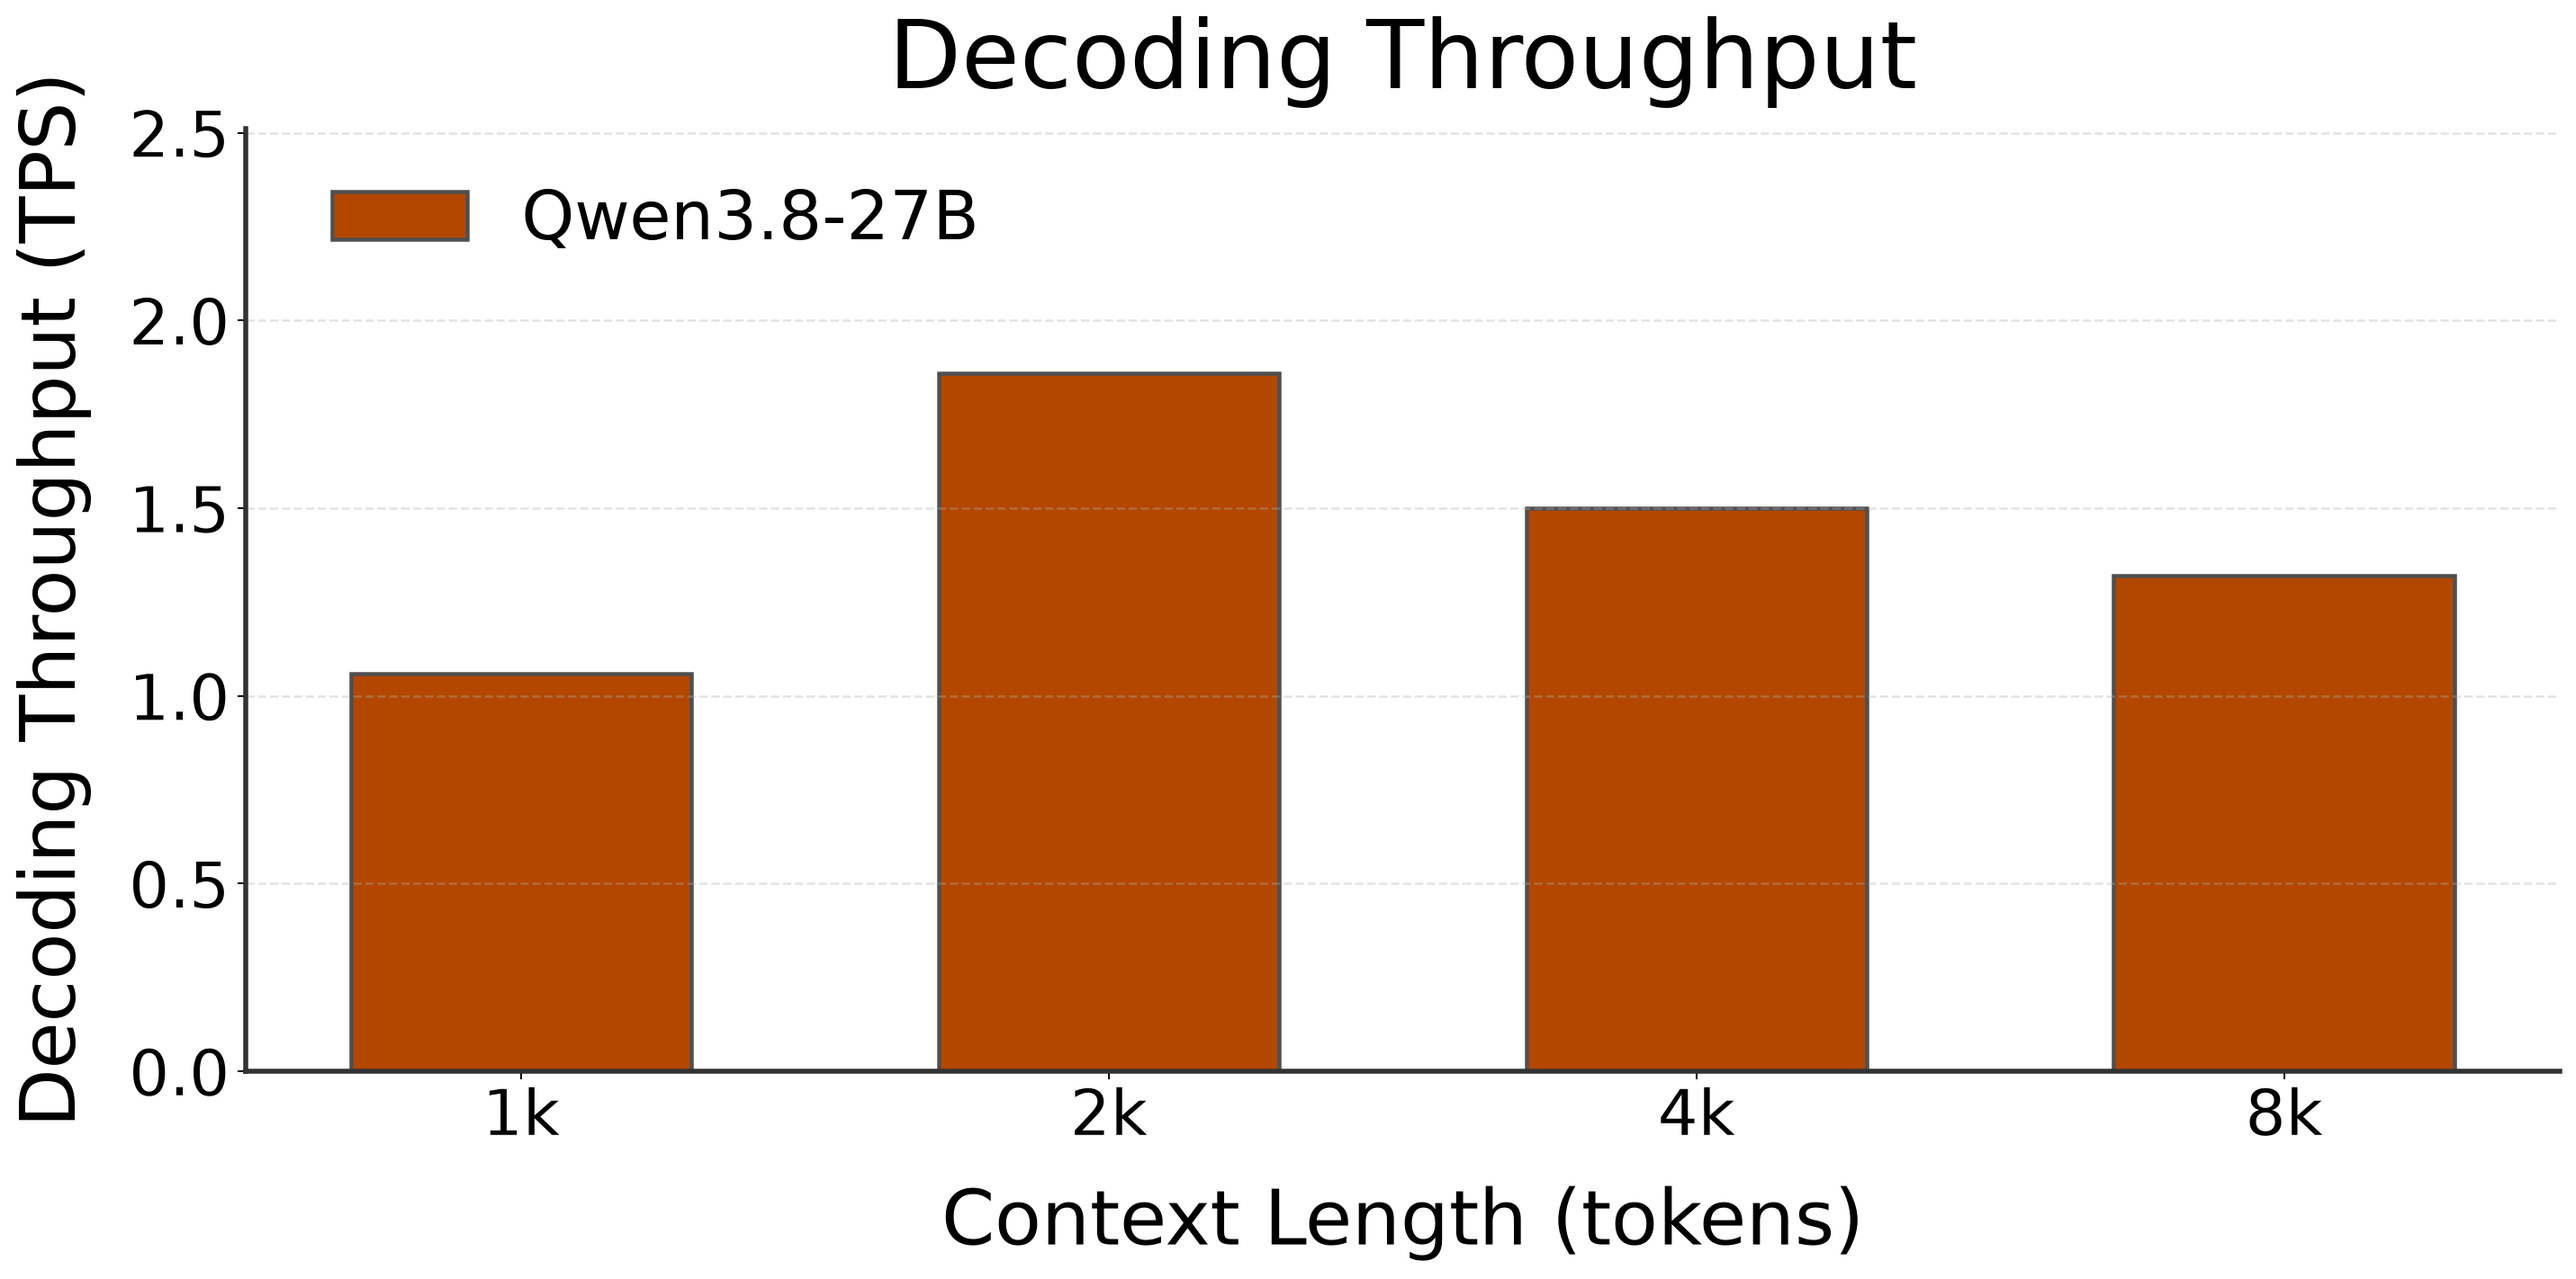
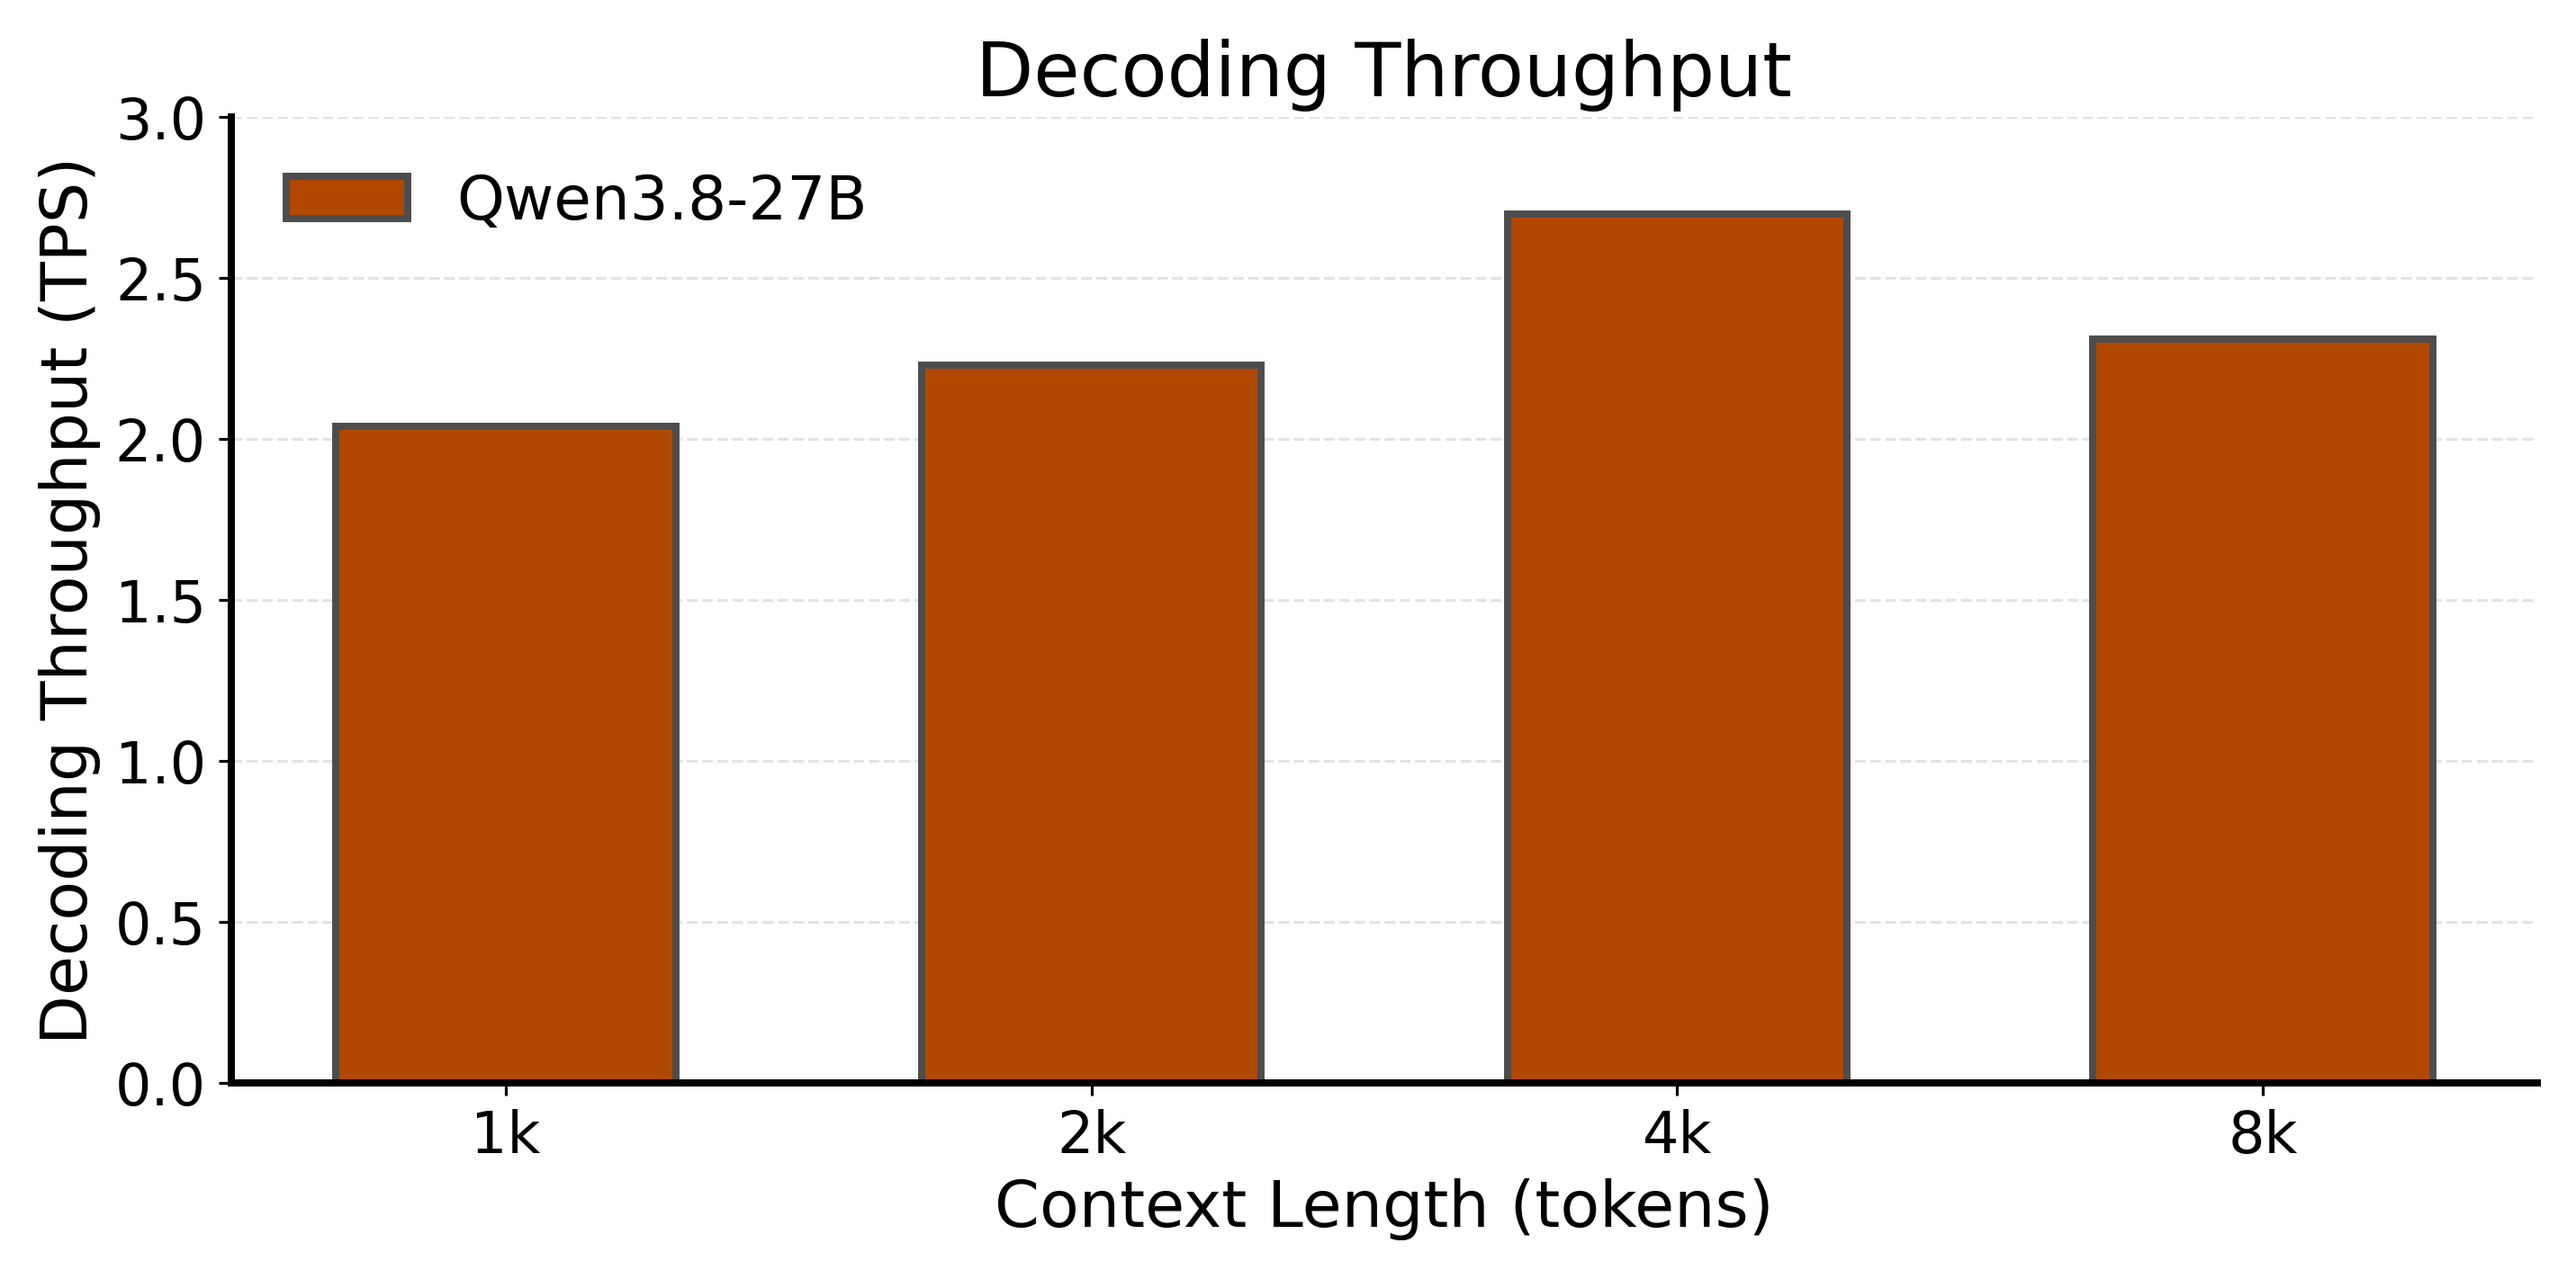
docs: update qwen3.8-mtp:27b decode benchmark for the mmul proj-engine xclbins
Decode tok/s at 1k/2k/4k/8k context: 1.06/1.86/1.50/1.32 -> 2.04/2.23/2.70/2.31 (IRON PR Check
run 41264160514, XRT perf-bench, the bench the page's numbers come from). Prefill and TTFT are
unchanged by this kernel and left as is.

diff --git a/docs/docs/benchmarks/qwen3.8_results.md b/docs/docs/benchmarks/qwen3.8_results.md
@@ -34,7 +34,7 @@ AMD Ryzen™ AI 5 340 (Kraken Point) with 64 GB DRAM; performance is comparable 
 
 | **Model**        | **HW**       | **1k** | **2k** | **4k** | **8k** |
 |------------------|--------------------|--------:|--------:|--------:|--------:|
-| **Qwen3.8-27B**    | XDNA2    | 1.06 | 1.86 | 1.50 | 1.32 | 
+| **Qwen3.8-27B**    | XDNA2    | 2.04 | 2.23 | 2.70 | 2.31 | 
 
 ---
 
